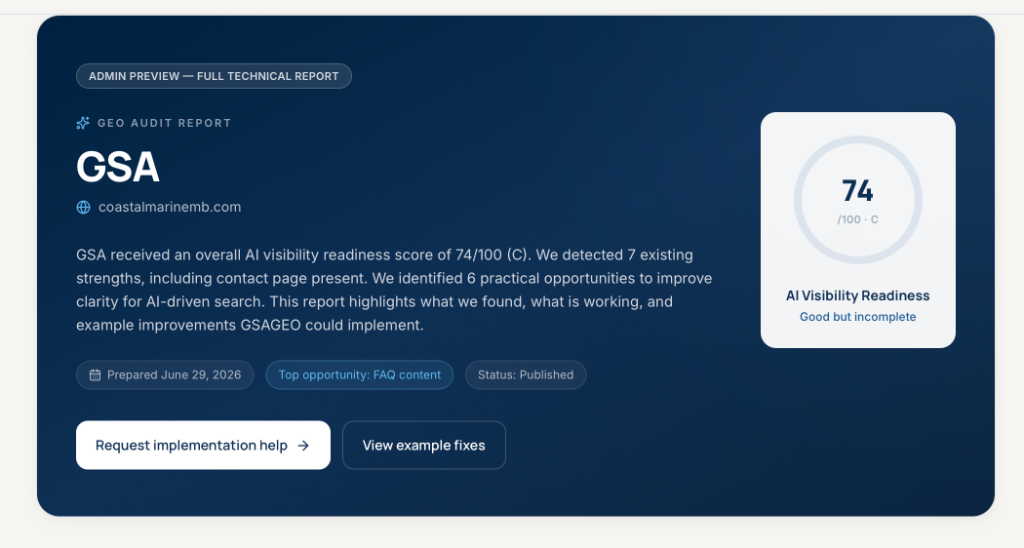
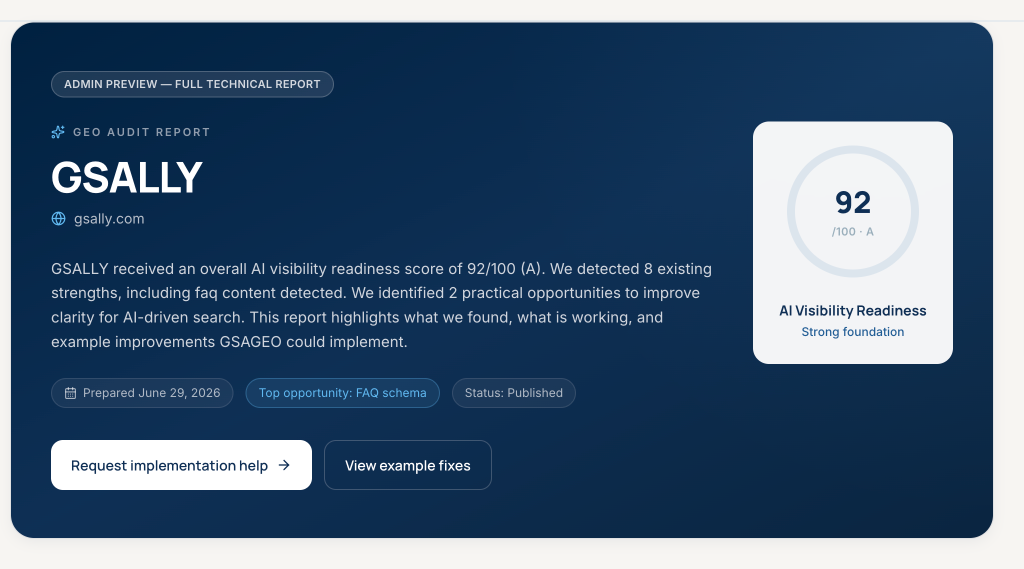
Refresh sample report screenshots and tie score colors to letter grades.
Replace homepage preview assets and centralize A/B-C/D-F grade accent mapping so badges, meters, and charts read green, amber, or red at a glance.

diff --git a/lib/results/score-utils.ts b/lib/results/score-utils.ts
@@ -1,5 +1,54 @@
 export type ScoreTone = "strong" | "good" | "moderate" | "attention" | "critical";
 
+export type GradeTone = "green" | "yellow" | "red";
+
+/** Letter grade accent: A = green, B/C = yellow, D/F = red */
+export function gradeTone(grade: string): GradeTone {
+  const letter = grade.trim().charAt(0).toUpperCase();
+  if (letter === "A") return "green";
+  if (letter === "B" || letter === "C") return "yellow";
+  return "red";
+}
+
+export function gradeToneClasses(tone: GradeTone): {
+  ring: string;
+  bg: string;
+  text: string;
+  bar: string;
+  fill: string;
+} {
+  switch (tone) {
+    case "green":
+      return {
+        ring: "stroke-emerald-600",
+        bg: "bg-emerald-50",
+        text: "text-emerald-800",
+        bar: "bg-emerald-500",
+        fill: "#059669",
+      };
+    case "yellow":
+      return {
+        ring: "stroke-amber-500",
+        bg: "bg-amber-50",
+        text: "text-amber-800",
+        bar: "bg-amber-500",
+        fill: "#d97706",
+      };
+    default:
+      return {
+        ring: "stroke-red-500",
+        bg: "bg-red-50",
+        text: "text-red-800",
+        bar: "bg-red-500",
+        fill: "#dc2626",
+      };
+  }
+}
+
+export function gradeToneClassesForGrade(grade: string) {
+  return gradeToneClasses(gradeTone(grade));
+}
+
 export function scoreTone(score: number): ScoreTone {
   if (score >= 85) return "strong";
   if (score >= 70) return "good";

diff --git a/components/results/report/CategoryScoreChart.tsx b/components/results/report/CategoryScoreChart.tsx
@@ -11,9 +11,7 @@ import {
   YAxis,
 } from "recharts";
 import type { ScoreCategory } from "@/lib/results/report-view-model";
-import { scoreTone, scoreToneClasses } from "@/lib/results/score-utils";
-
-const CHART_COLORS = ["#1f5e95", "#2f7ab8", "#60b8f0", "#0e2f54", "#4b5b6b", "#9aaeb8"];
+import { gradeToneClassesForGrade } from "@/lib/results/score-utils";
 
 function CustomTooltip({
   active,
@@ -55,23 +53,12 @@ export function CategoryScoreChart({ categories }: { categories: ScoreCategory[]
             />
             <Tooltip content={<CustomTooltip />} cursor={{ fill: "rgba(31, 94, 149, 0.06)" }} />
             <Bar dataKey="score" radius={[0, 6, 6, 0]} barSize={18}>
-              {data.map((entry, index) => {
-                const tone = scoreTone(entry.score);
-                const barClass = scoreToneClasses(tone).bar;
-                const colorMap: Record<string, string> = {
-                  "bg-emerald-500": "#10b981",
-                  "bg-brand-blue": "#1f5e95",
-                  "bg-amber-500": "#f59e0b",
-                  "bg-orange-500": "#f97316",
-                  "bg-red-500": "#ef4444",
-                };
-                return (
-                  <Cell
-                    key={entry.key}
-                    fill={colorMap[barClass] ?? CHART_COLORS[index % CHART_COLORS.length]}
-                  />
-                );
-              })}
+              {data.map((entry) => (
+                <Cell
+                  key={entry.key}
+                  fill={gradeToneClassesForGrade(entry.grade).fill}
+                />
+              ))}
             </Bar>
           </BarChart>
         </ResponsiveContainer>

diff --git a/tests/grade-tone.test.ts b/tests/grade-tone.test.ts
@@ -1,0 +1,23 @@
+import assert from "node:assert/strict";
+import { describe, it } from "node:test";
+import { gradeTone } from "../lib/results/score-utils";
+
+describe("gradeTone", () => {
+  it("maps A variants to green", () => {
+    assert.equal(gradeTone("A"), "green");
+    assert.equal(gradeTone("A+"), "green");
+    assert.equal(gradeTone("A-"), "green");
+  });
+
+  it("maps B and C variants to yellow", () => {
+    assert.equal(gradeTone("B"), "yellow");
+    assert.equal(gradeTone("B+"), "yellow");
+    assert.equal(gradeTone("C-"), "yellow");
+  });
+
+  it("maps D and F to red", () => {
+    assert.equal(gradeTone("D"), "red");
+    assert.equal(gradeTone("D+"), "red");
+    assert.equal(gradeTone("F"), "red");
+  });
+});

diff --git a/components/results/report/ScoreBadge.tsx b/components/results/report/ScoreBadge.tsx
@@ -1,4 +1,4 @@
-import { scoreTone, scoreToneClasses } from "@/lib/results/score-utils";
+import { gradeToneClassesForGrade } from "@/lib/results/score-utils";
 import { cn } from "@/lib/utils";
 
 export function ScoreBadge({
@@ -12,8 +12,7 @@ export function ScoreBadge({
   size?: "md" | "lg" | "xl";
   className?: string;
 }) {
-  const tone = scoreTone(score);
-  const colors = scoreToneClasses(tone);
+  const colors = gradeToneClassesForGrade(grade);
   const dimension = size === "xl" ? 132 : size === "lg" ? 112 : 88;
   const stroke = size === "xl" ? 8 : 7;
   const radius = (dimension - stroke) / 2;
@@ -45,10 +44,10 @@ export function ScoreBadge({
         />
       </svg>
       <div className="absolute inset-0 flex flex-col items-center justify-center text-center px-2">
-        <span className="text-2xl md:text-3xl font-heading font-extrabold text-brand-navy leading-none">
+        <span className={cn("text-2xl md:text-3xl font-heading font-extrabold leading-none", colors.text)}>
           {score}
         </span>
-        <span className="text-[11px] font-bold uppercase tracking-wide text-brand-subtle mt-1">
+        <span className={cn("text-[11px] font-bold uppercase tracking-wide mt-1", colors.text)}>
           /100 · {grade}
         </span>
       </div>
@@ -67,8 +66,7 @@ export function ScoreMeter({
   grade: string;
   interpretation: string;
 }) {
-  const tone = scoreTone(score);
-  const colors = scoreToneClasses(tone);
+  const colors = gradeToneClassesForGrade(grade);
 
   return (
     <div className="rounded-xl border border-brand-border bg-white p-4 md:p-5">
@@ -78,8 +76,8 @@ export function ScoreMeter({
           <p className={cn("text-xs mt-1 font-medium", colors.text)}>{interpretation}</p>
         </div>
         <div className="text-right shrink-0">
-          <p className="text-lg font-heading font-extrabold text-brand-navy">{score}</p>
-          <p className="text-[10px] uppercase tracking-wide text-brand-subtle">{grade}</p>
+          <p className={cn("text-lg font-heading font-extrabold", colors.text)}>{score}</p>
+          <p className={cn("text-[10px] uppercase tracking-wide font-semibold", colors.text)}>{grade}</p>
         </div>
       </div>
       <div className="h-2 rounded-full bg-brand-cream overflow-hidden">

diff --git a/lib/content/landing.ts b/lib/content/landing.ts
@@ -19,7 +19,7 @@ export const HOME_HERO = {
 } as const;
 
 export const ASSESSMENT_PREVIEW = {
-  eyebrow: "Sample report preview",
+  eyebrow: "SAMPLE REPORT PREVIEW",
   title: "What a Full GEO Audit Report Can Look Like",
   description:
     "This is a sample preview of the kind of customer-facing GEO / AI Visibility report you may receive after a full audit.",